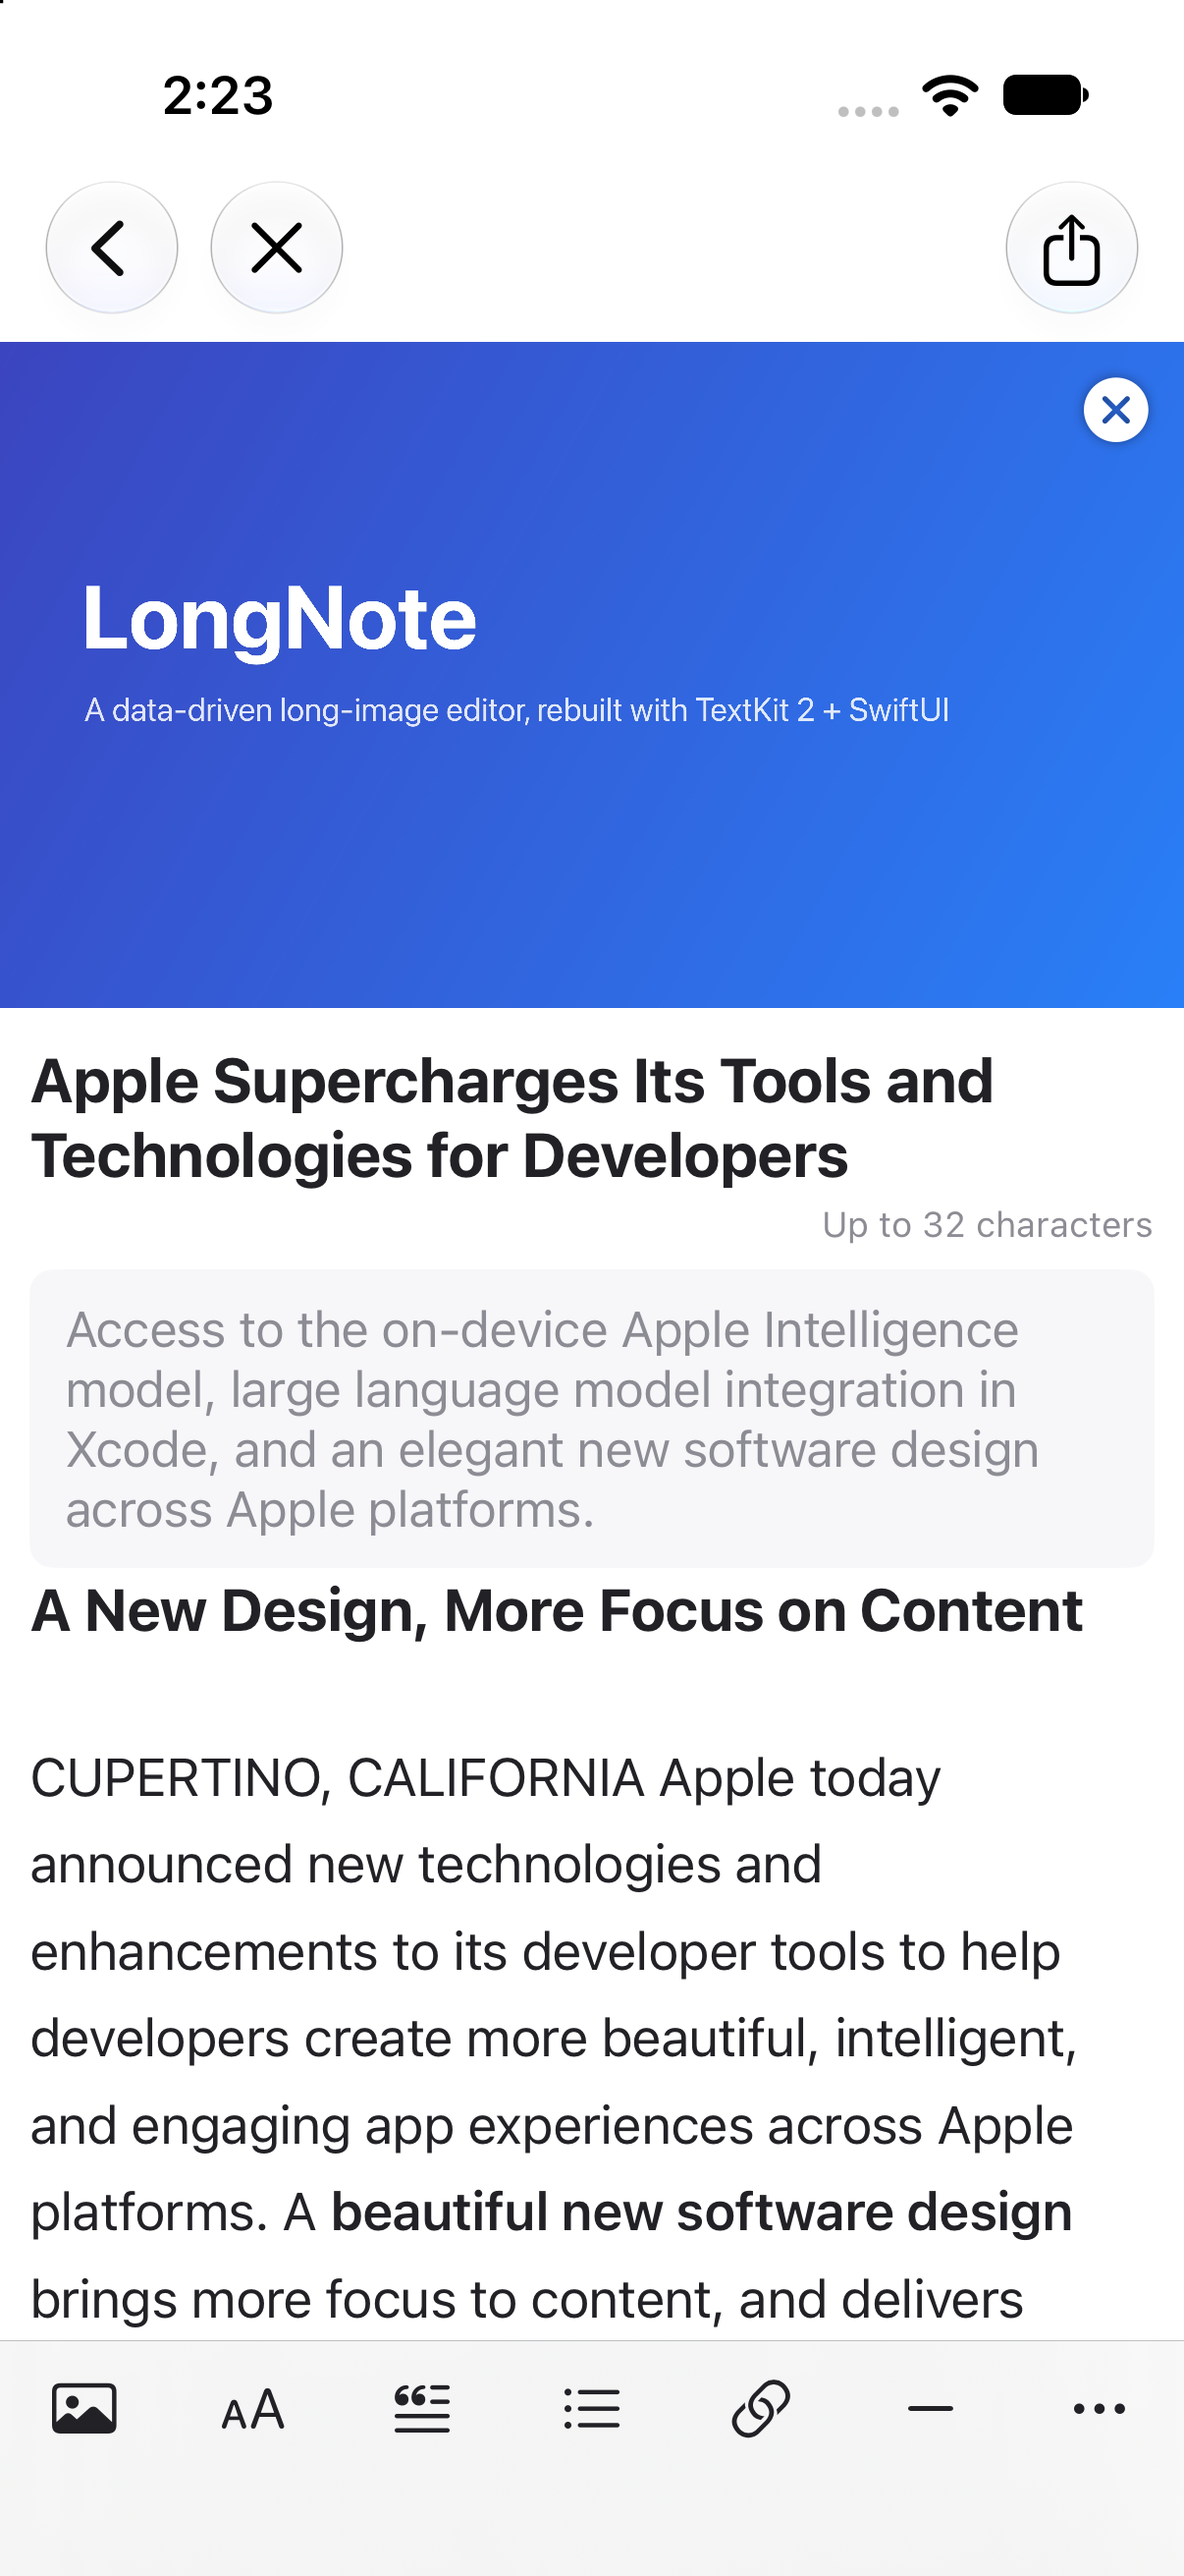
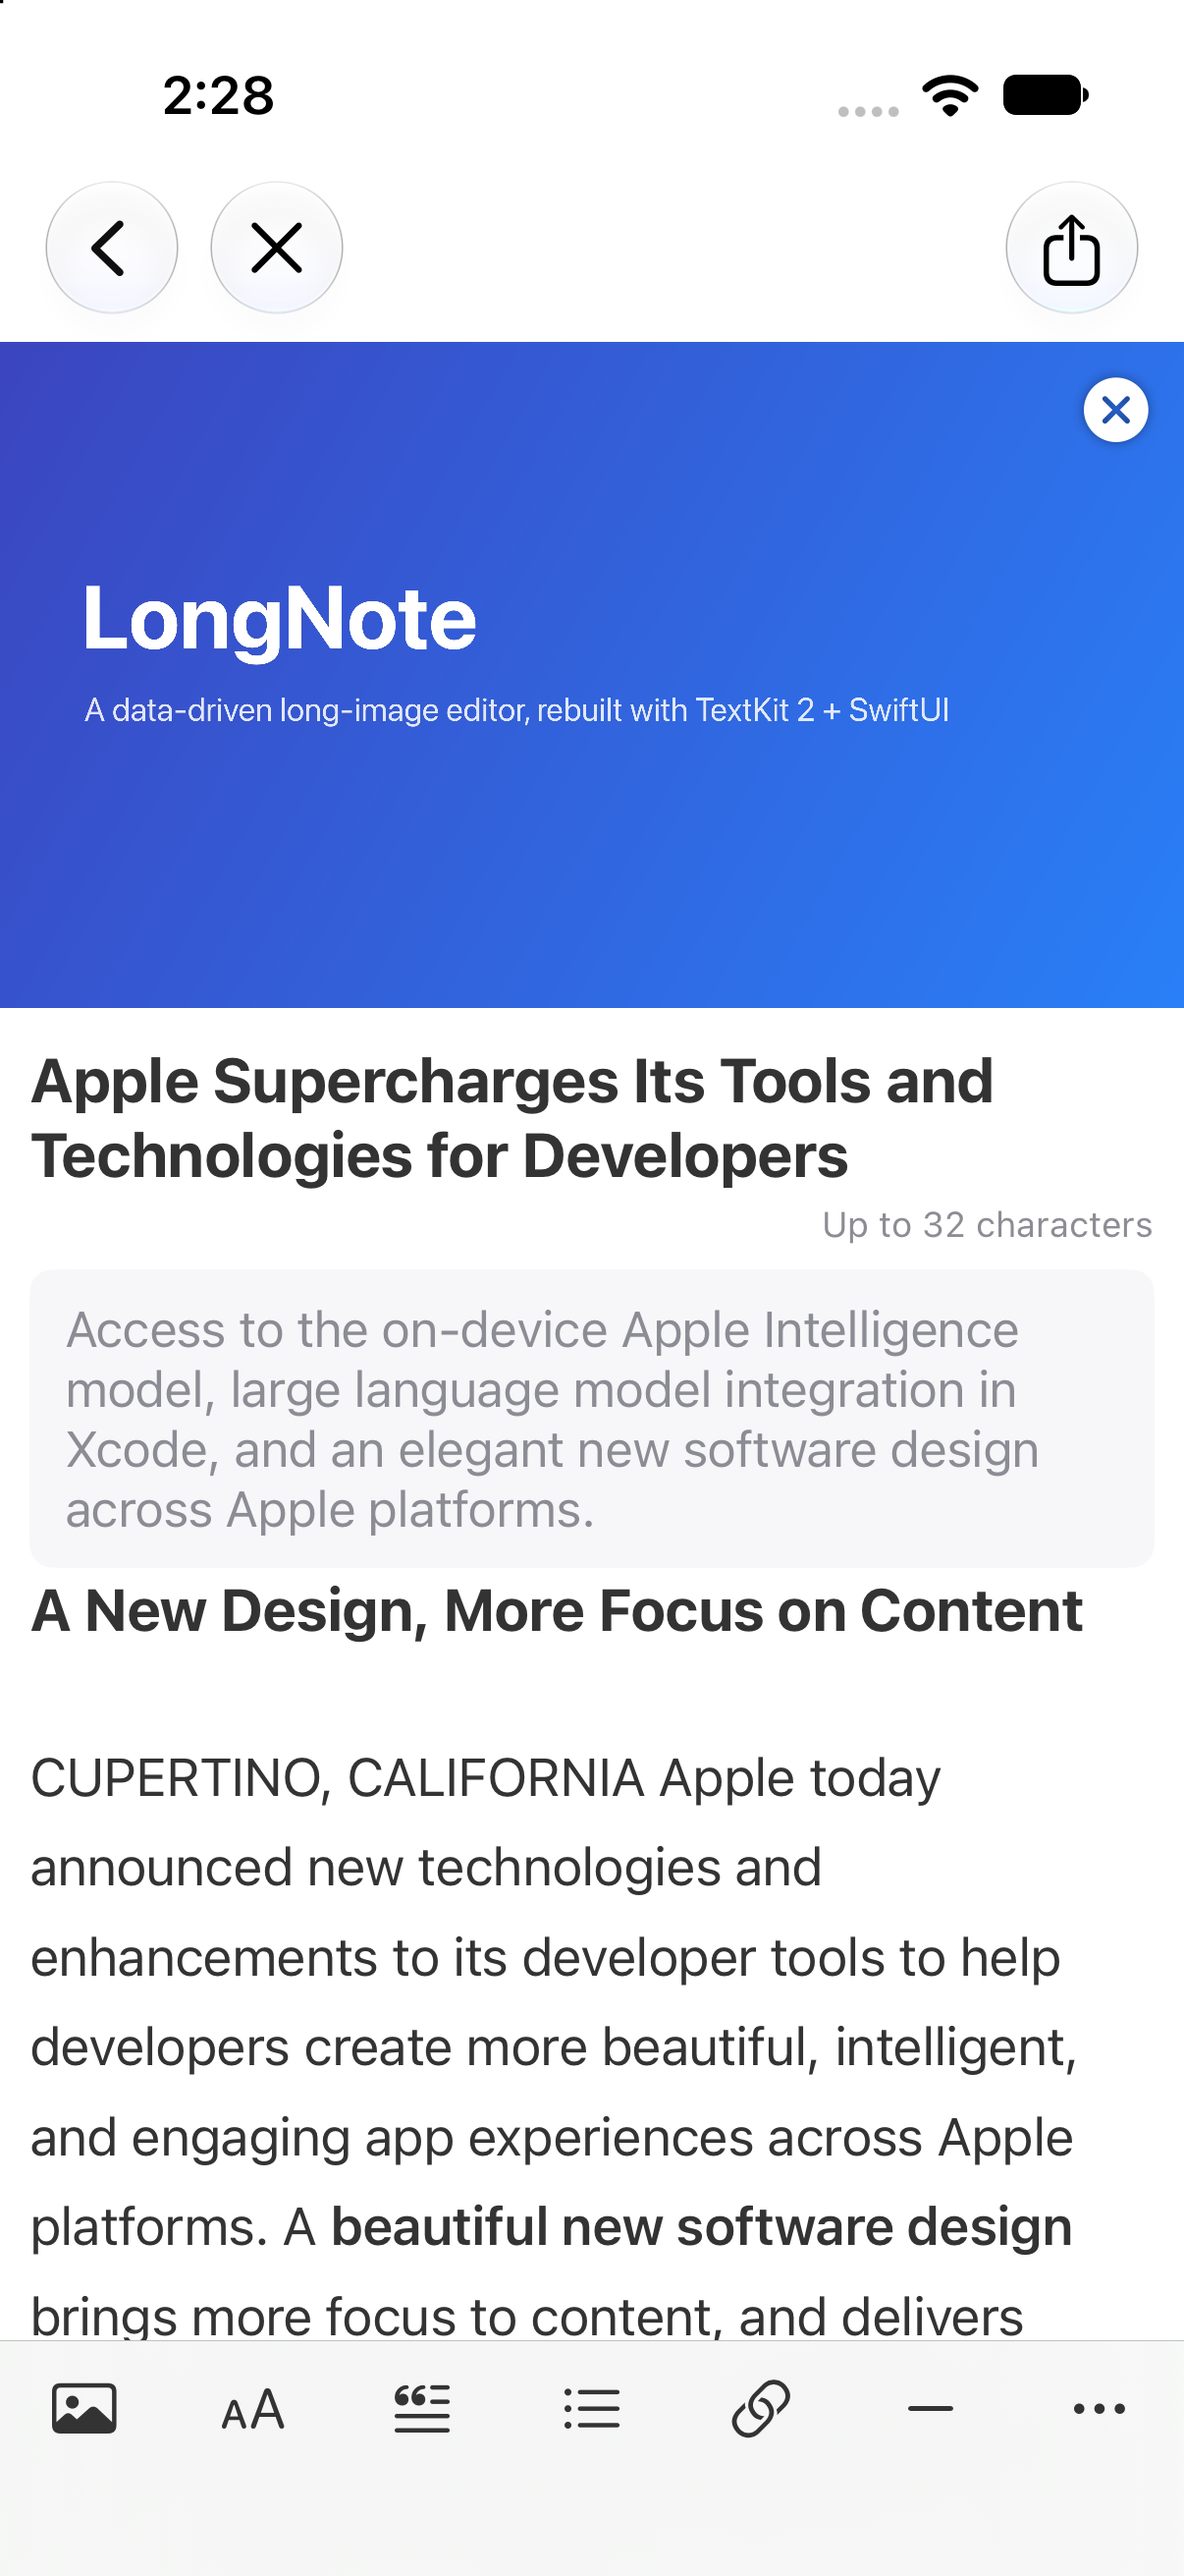
Align editor styling with the original's stored documents
Read the app's preset tips article (Documents/WeicoArticleDocumentStore) to
check what the original actually stores, rather than only its constants:

- every paragraph carries NSLineSpacing = 9 (not 8) — matched
- body text is white 0.2, quotes white 0.576 — matched (quotes were using
  the body colour before)
- paragraphs are justified; that only reads well for CJK, so justification is
  now chosen per paragraph (CJK-heavy → justified, Latin → natural) to avoid
  rivers in narrow English columns
- image rows are exactly the image height in the original, with the caption
  drawn over the photo and controls hidden until tapped — ImageBlockView now
  follows that: caption as a bottom overlay, delete/edit only after a tap,
  no corner rounding

The tips note also confirms the interaction model we already implement
(tap a paragraph, then use the toolbar; fixed sizes and spacing).

Changed region(s): [[0.0307, 0.7105, 0.9204, 0.9268]]

diff --git a/Sources/LongNote/Editor/ImageBlockView.swift b/Sources/LongNote/Editor/ImageBlockView.swift
@@ -3,8 +3,12 @@
   import UIKit
   import LongNoteCore
 
-  /// An image paragraph: the downsampled photo with a caption `TextField` below and
-  /// a delete button on top.
+  /// An image paragraph.
+  ///
+  /// Mirrors the original editor's behaviour: the photo is shown clean — the
+  /// caption sits on the image as a bottom overlay and the edit controls stay
+  /// hidden until the image is tapped, so an article can be previewed without
+  /// chrome in the way ("点击图片会出现更多操作，平时则隐藏起来").
   @MainActor
   struct ImageBlockView: View {
     let document: ArticleDocument
@@ -12,6 +16,7 @@
 
     @State private var loadedImage: UIImage?
     @State private var captionDraft: String = ""
+    @State private var isSelected = false
 
     var body: some View {
       VStack(spacing: 6) {
@@ -19,26 +24,30 @@
           Image(uiImage: loadedImage)
             .resizable()
             .aspectRatio(contentMode: .fit)
-            .clipShape(RoundedRectangle(cornerRadius: 8))
-            .overlay(alignment: .topTrailing) {
-              Button {
-                document.deleteParagraph(id: paragraph.id)
-              } label: {
-                Image(systemName: "xmark.circle.fill")
-                  .font(.title3)
-                  .foregroundStyle(.white)
-                  .shadow(color: .black.opacity(0.5), radius: 2)
+            .overlay(alignment: .bottom) {
+              if !isSelected, !captionDraft.isEmpty {
+                captionOverlay
               }
-              .padding(8)
+            }
+            .overlay(alignment: .topTrailing) {
+              if isSelected {
+                deleteButton
+              }
+            }
+            .contentShape(Rectangle())
+            .onTapGesture {
+              withAnimation(.easeInOut(duration: 0.15)) { isSelected.toggle() }
             }
 
-          TextField("Add a caption", text: $captionDraft)
-            .font(.system(size: TextStyle.captionFontSize))
-            .foregroundStyle(TextStyle.secondaryTextColor.color)
-            .padding(.horizontal, 4)
-            .onChange(of: captionDraft) { _, newValue in
-              document.updateCaption(newValue, for: paragraph.id)
-            }
+          if isSelected {
+            TextField("Add a caption", text: $captionDraft)
+              .font(.system(size: TextStyle.captionFontSize))
+              .foregroundStyle(TextStyle.secondaryTextColor.color)
+              .padding(.horizontal, 4)
+              .onChange(of: captionDraft) { _, newValue in
+                document.updateCaption(newValue, for: paragraph.id)
+              }
+          }
         }
       }
       .padding(.horizontal, TextStyle.editorHorizontalInset)
@@ -48,6 +57,38 @@
         captionDraft = paragraph.image?.caption ?? ""
         reloadImage()
       }
+    }
+
+    // MARK: - Pieces
+
+    /// Caption drawn over the photo's bottom edge, like the original.
+    private var captionOverlay: some View {
+      Text(captionDraft)
+        .font(.system(size: TextStyle.captionFontSize))
+        .foregroundStyle(.white)
+        .frame(maxWidth: .infinity, alignment: .leading)
+        .padding(.horizontal, 8)
+        .padding(.vertical, 6)
+        .background(
+          LinearGradient(
+            colors: [.black.opacity(0), .black.opacity(0.55)],
+            startPoint: .top,
+            endPoint: .bottom
+          )
+        )
+    }
+
+    private var deleteButton: some View {
+      Button {
+        document.deleteParagraph(id: paragraph.id)
+      } label: {
+        Image(systemName: "xmark.circle.fill")
+          .font(.title3)
+          .foregroundStyle(.white)
+          .shadow(color: .black.opacity(0.5), radius: 2)
+      }
+      .padding(8)
+      .accessibilityLabel("Delete image")
     }
 
     private func reloadImage() {

diff --git a/Sources/LongNoteCore/TextStyle/TextStyle.swift b/Sources/LongNoteCore/TextStyle/TextStyle.swift
@@ -32,10 +32,11 @@ public enum TextStyle {
 
   // MARK: Line spacing (inside one paragraph; original kLineHeight*)
 
-  /// Extra leading between lines of body / heading / list text.
-  public static let lineSpacingText: CGFloat = 8
-  /// Extra leading between quote lines.
-  public static let lineSpacingQuote: CGFloat = 7
+  /// Extra leading between lines of body / heading / list text (the original
+  /// stores `NSLineSpacing = 9` on every paragraph).
+  public static let lineSpacingText: CGFloat = 9
+  /// Extra leading between quote lines (also 9 in the original's archives).
+  public static let lineSpacingQuote: CGFloat = 9
   /// Extra leading under an image caption.
   public static let lineSpacingCaption: CGFloat = 5
 
@@ -64,7 +65,10 @@ public enum TextStyle {
 
   // MARK: Colors (RGBA in 0...1)
 
-  public static let textColor = RGBColor(red: 0.13, green: 0.13, blue: 0.15, alpha: 1)
+  /// Body text (original `kFontColorText` = white 0.2).
+  public static let textColor = RGBColor(red: 0.2, green: 0.2, blue: 0.2, alpha: 1)
+  /// Block-quote text (the original stores white 0.576).
+  public static let quoteTextColor = RGBColor(red: 0.576, green: 0.576, blue: 0.576, alpha: 1)
   public static let secondaryTextColor = RGBColor(red: 0.55, green: 0.55, blue: 0.58, alpha: 1)
   public static let placeholderColor = RGBColor(red: 0.78, green: 0.78, blue: 0.80, alpha: 1)
   public static let dividerColor = RGBColor(red: 0.89, green: 0.89, blue: 0.90, alpha: 1)

diff --git a/Sources/LongNote/Editor/RichTextStyling.swift b/Sources/LongNote/Editor/RichTextStyling.swift
@@ -15,6 +15,7 @@
       // breathes the same way (original kLineHeight*).
       let paragraphStyle = NSMutableParagraphStyle()
       paragraphStyle.lineSpacing = kind.lineSpacing
+      paragraphStyle.alignment = Self.alignment(for: string)
       var base = kind.baseAttributes
       base[.paragraphStyle] = paragraphStyle
       let result = NSMutableAttributedString()
@@ -36,6 +37,25 @@
         result.append(NSAttributedString(string: run.text, attributes: attributes))
       }
       return result
+    }
+  }
+
+  extension CodableAttributedString {
+    /// The original justifies every paragraph. That reads well for CJK text but
+    /// produces rivers in a narrow column of Latin text, so justification is
+    /// kept for CJK-heavy content and Latin falls back to natural alignment.
+    fileprivate static func alignment(for text: String) -> NSTextAlignment {
+      guard !text.isEmpty else { return .natural }
+      var cjk = 0
+      for scalar in text.unicodeScalars {
+        switch scalar.value {
+        case 0x3040...0x30FF, 0x3400...0x4DBF, 0x4E00...0x9FFF, 0xF900...0xFAFF:
+          cjk += 1
+        default:
+          break
+        }
+      }
+      return cjk * 3 >= text.unicodeScalars.count ? .justified : .natural
     }
   }
 

diff --git a/Sources/LongNote/TextStyle/TextStyle+iOS.swift b/Sources/LongNote/TextStyle/TextStyle+iOS.swift
@@ -30,7 +30,7 @@
     }
 
     public var baseColor: UIColor {
-      TextStyle.textColor.uiColor
+      self == .quote ? TextStyle.quoteTextColor.uiColor : TextStyle.textColor.uiColor
     }
 
     /// Extra leading between lines of this block (original `kLineHeight*`).
